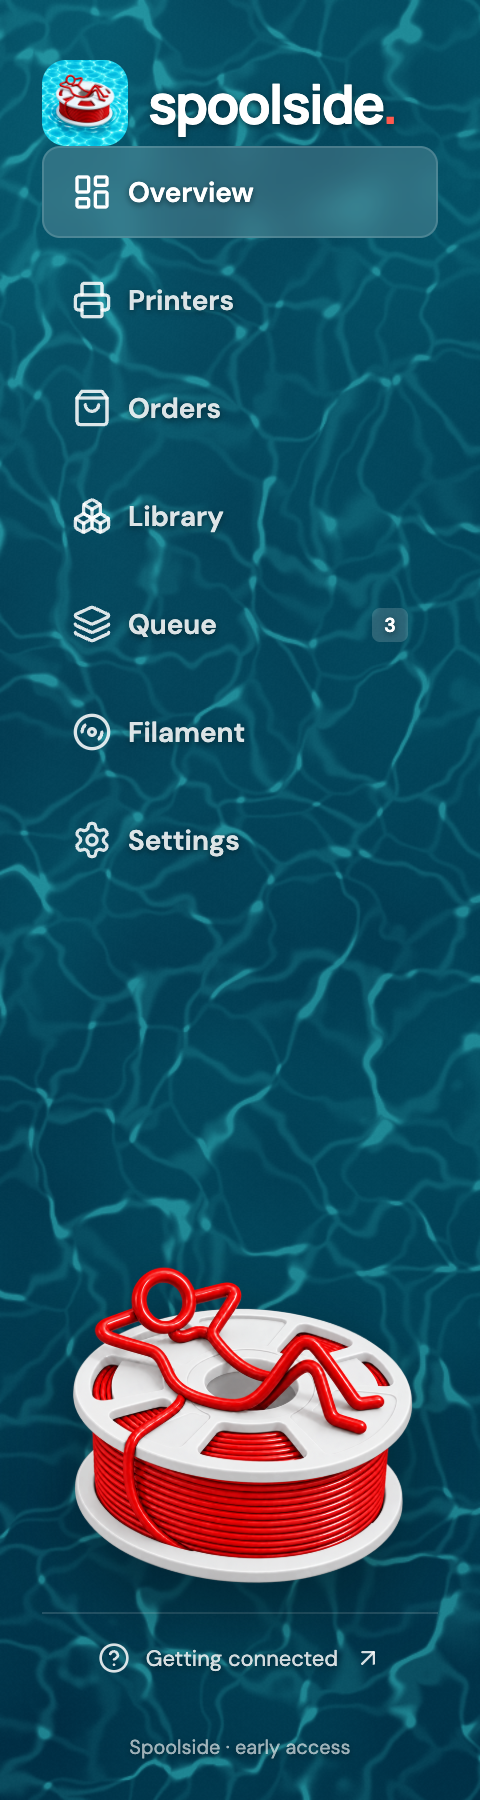
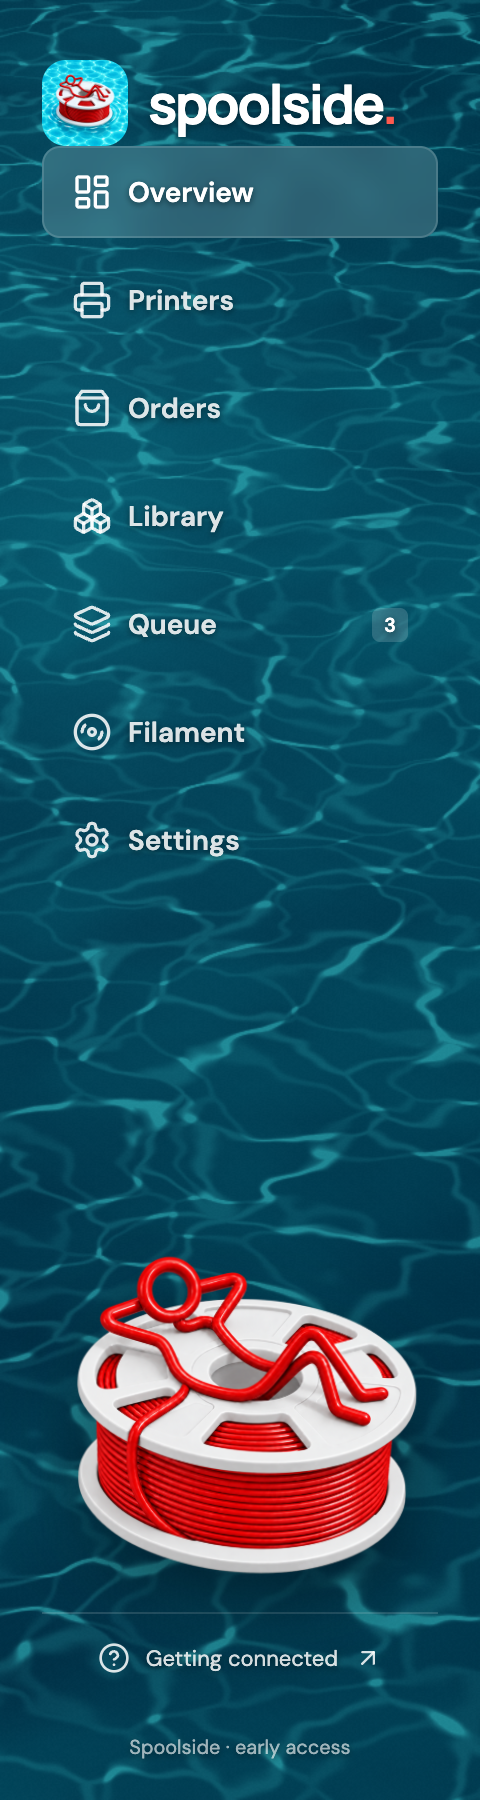
Lay sidebar water flat in perspective and float the spool
The water shader foreshortens and recedes the surface to match the
spool artwork's viewing angle; the spool drifts gently (off with reduced
motion).

diff --git a/src/water.frag.ts b/src/water.frag.ts
@@ -15,7 +15,11 @@ float caustic(vec2 p,float t){vec2 cell=floor(p),f=fract(p);float first=9.,secon
 for(int y=-1;y<=1;y++){for(int x=-1;x<=1;x++){vec2 g=vec2(float(x),float(y));vec2 rnd=hash2(cell+g);vec2 point=.5+.39*sin(6.2831*rnd+t*.32+vec2(.0,1.7));vec2 v=g+point-f;float d=dot(v,v);if(d<first){second=first;first=d;}else if(d<second){second=d;}}}
 float edge=sqrt(second)-sqrt(first);return pow(1.-smoothstep(.015,.18,edge),2.4);}
 void main(){
- vec2 uv=gl_FragCoord.xy/resolution;vec2 world=(gl_FragCoord.xy-.5*resolution)/min(resolution.x,resolution.y);
+ vec2 uv=gl_FragCoord.xy/resolution;vec2 screen=(gl_FragCoord.xy-.5*resolution)/min(resolution.x,resolution.y);
+ // Lay the water flat like the pool under the spool: viewed from about 27 degrees up, so the
+ // surface is foreshortened vertically, and farther water (toward the top) recedes.
+ float recede=1./(1.-.16*screen.y);
+ vec2 world=vec2(screen.x,screen.y*2.2)*recede;
  world+=drift*.14;
  vec2 deep=world*5.2/scale;float t=time;
  vec2 warp=vec2(fbm(deep*.7+vec2(t*.10,-t*.07)),fbm(deep*.7+vec2(5.2-t*.06,t*.09)))-.5;

diff --git a/src/style.css b/src/style.css
@@ -2259,3 +2259,13 @@ footer .tiny-dot {
 .assembly-tile.drop-target { box-shadow: 0 0 0 2px var(--teal); transform: scale(1.02); }
 .arrange-buttons { display: flex; gap: 6px; }
 .arrange-buttons button { flex: 1; min-height: 36px; padding: 0; }
+/* The spool drifts gently on the water. */
+@media (min-width: 761px) and (prefers-reduced-motion: no-preference) {
+  .sidebar-bottom > img { animation: spool-float 9s ease-in-out infinite; transform-origin: 50% 70%; }
+}
+@keyframes spool-float {
+  0%, 100% { transform: translate(0, 0) rotate(0deg); }
+  25% { transform: translate(3px, -6px) rotate(1.2deg); }
+  50% { transform: translate(-2px, -2px) rotate(-0.6deg); }
+  75% { transform: translate(-4px, -7px) rotate(-1.4deg); }
+}

diff --git a/src/WaterBackground.tsx b/src/WaterBackground.tsx
@@ -66,7 +66,7 @@ export function WaterBackground() {
       gl.uniform2f(u.resolution, canvas.width, canvas.height);
       gl.uniform2f(u.drift, state.x, state.y);
       gl.uniform1f(u.time, elapsed);
-      gl.uniform1f(u.scale, 1.05 + state.tide);
+      gl.uniform1f(u.scale, 1.45 + state.tide);
       gl.uniform1f(u.sunlight, 0.8);
       gl.drawArrays(gl.TRIANGLES, 0, 6);
     };
